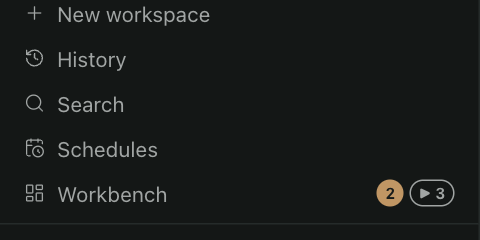
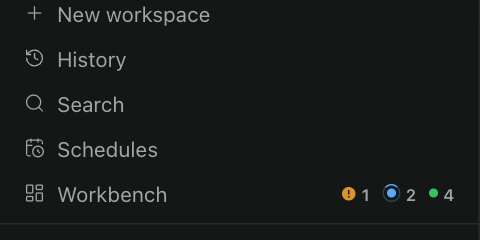
Sidebar badge: one count per Paseo status, with Paseo's marks and colours
Needs input (amber "!"), failed (red dot), working (blue dot in a ring), ready to review (green dot), in Paseo's order; zero counts hidden. Sizes measured against Paseo's own sidebar marks. The plugin theme only has muted status colours and no blue, so Paseo 0.13's statusDot values are copied, picked by the theme's background. 0.1.0-alpha.27.

Changed region(s): [[0.6875, 0.7292, 0.9688, 0.875]]

diff --git a/client/SidebarItem.tsx b/client/SidebarItem.tsx
@@ -3,14 +3,14 @@ import { usePaseo } from "@getpaseo/plugin/client";
 import { SidebarRow } from "@getpaseo/plugin/client/ui";
 import { useEffect, useState } from "react";
 import { Text, View } from "react-native";
-import { groupProjects, sidebarCounts } from "../shared/model";
+import { groupProjects, sidebarCounts, type SidebarCounts } from "../shared/model";
 import { isCoordinatorHome } from "../shared/settings";
 import { directoryForHost, watchAgents } from "./directory";
 
 /** This host's counts, refreshed about a second after any agent changes, and every 15 seconds. Null until read (or unreadable). */
 function useCounts(serverId: string) {
   const paseo = usePaseo();
-  const [counts, setCounts] = useState<{ attention: number; running: number } | null>(null);
+  const [counts, setCounts] = useState<SidebarCounts | null>(null);
   useEffect(() => {
     let alive = true;
     const load = async () => {
@@ -27,16 +27,43 @@ function useCounts(serverId: string) {
   return counts;
 }
 
-/** The Workbench sidebar row, with what needs you (amber) and how many agents are working. */
+/**
+ * Paseo's status dot colours (its theme's statusDot*, Paseo 0.13), which the plugin theme does not expose: its
+ * statusWarning/statusSuccess are muted variants and it has no running blue.
+ * shortcut: copied values, picked by the theme's background; update them if Paseo's change.
+ */
+const DOTS = {
+  light: { needsInput: "#b37824", failed: "#f12e2f", running: "#268ae0", finished: "#299f51" },
+  dark: { needsInput: "#db932e", failed: "#f7796d", running: "#5caaf6", finished: "#35c264" },
+};
+function isDark(color: string): boolean {
+  const hex = /^#([0-9a-f]{6})$/i.exec(color)?.[1];
+  if (!hex) return true; // Paseo's default theme is dark
+  const [r, g, b] = [0, 2, 4].map((i) => parseInt(hex.slice(i, i + 2), 16));
+  return 0.2126 * r! + 0.7152 * g! + 0.0722 * b! < 128;
+}
+/** In Paseo's bucket order, with its own words (subagent pills) and the shape its sidebar draws for each. */
+const BUCKETS = [["needsInput", "needs input", "alert"], ["failed", "failed", "dot"], ["running", "working", "ring"], ["finished", "ready to review", "dot"]] as const;
+
+/** The Workbench sidebar row, with a count per Paseo status (dot colour as in Paseo's sidebar) for agents on this host. */
 export function SidebarItem({ currentScreen, openScreen, host, theme }: PluginSidebarItemProps) {
   const counts = useCounts(host.id);
-  const badge = (text: string, color: string, filled: boolean, label: string) => <View accessibilityLabel={label}
-    style={{ minWidth: 18, paddingHorizontal: 5, height: 18, borderRadius: 9, alignItems: "center", justifyContent: "center", backgroundColor: filled ? color : "transparent", borderWidth: filled ? 0 : 1, borderColor: color }}>
-    <Text style={{ fontSize: 10, fontWeight: "700", color: filled ? theme.colors.surface0 : color }}>{text}</Text>
-  </View>;
-  const trailing = counts && (counts.attention || counts.running) ? <View style={{ flexDirection: "row", gap: 4, alignItems: "center" }}>
-    {counts.attention ? badge(String(counts.attention), theme.colors.statusWarning, true, `${counts.attention} need attention`) : null}
-    {counts.running ? badge(`▶ ${counts.running}`, theme.colors.foregroundMuted, false, `${counts.running} running`) : null}
+  const dots = DOTS[isDark(theme.colors.surface0) ? "dark" : "light"];
+  const shown = counts ? BUCKETS.filter(([key]) => counts[key] > 0) : [];
+  const trailing = counts && shown.length ? <View style={{ flexDirection: "row", gap: 8, alignItems: "center" }}>
+    {shown.map(([key, words, shape]) => <View key={key} accessibilityLabel={`${counts[key]} ${words}`} style={{ flexDirection: "row", gap: 4, alignItems: "center" }}>
+      {/* Paseo's marks, sizes measured against its sidebar: a filled circle with "!" (Lucide CircleAlert) when asking; a dot
+          in a faint spinner track while working (Paseo's arc moves, this one is still); a dot otherwise. */}
+      {shape === "alert" ? <View style={{ width: 9, height: 9, borderRadius: 4.5, backgroundColor: dots[key], alignItems: "center", justifyContent: "center" }}>
+          <View style={{ width: 1, height: 3, borderRadius: 0.5, backgroundColor: theme.colors.surface0 }} />
+          <View style={{ width: 1, height: 1, marginTop: 1, borderRadius: 0.5, backgroundColor: theme.colors.surface0 }} />
+        </View>
+        : shape === "ring" ? <View style={{ width: 12, height: 12, borderRadius: 6, borderWidth: 1, borderColor: `${dots[key]}4d`, borderTopColor: dots[key], alignItems: "center", justifyContent: "center" }}>
+          <View style={{ width: 6, height: 6, borderRadius: 3, backgroundColor: dots[key] }} />
+        </View>
+        : <View style={{ width: 6, height: 6, borderRadius: 3, backgroundColor: dots[key] }} />}
+      <Text style={{ fontSize: 11, fontWeight: "600", color: theme.colors.foregroundMuted }}>{counts[key]}</Text>
+    </View>)}
   </View> : undefined;
   return <SidebarRow icon="LayoutDashboard" active={currentScreen?.screenId === "workbench"} onPress={() => openScreen({ screenId: "workbench" })} trailing={trailing} />;
 }

diff --git a/shared/model.ts b/shared/model.ts
@@ -327,10 +327,15 @@ export function finishedSpecialists(agents: readonly WorkbenchAgent[]): Workbenc
   return agents.filter((a) => a.labels[SPECIALIST_LABEL] && !a.labels[PARENT_AGENT_ID_LABEL] && teamArchivable(agents, a));
 }
 
-/** The two numbers on the sidebar badge, counted like Workbench's header: what needs you, and what is working. */
-export function sidebarCounts(agents: readonly WorkbenchAgent[], projects: readonly ProjectGroup[]): { attention: number; running: number } {
+export type SidebarCounts = { needsInput: number; failed: number; running: number; finished: number };
+
+/** The sidebar badge's numbers, in Paseo's status buckets: asking you, failed, working, and finished since you looked. */
+export function sidebarCounts(agents: readonly WorkbenchAgent[], projects: readonly ProjectGroup[]): SidebarCounts {
+  const items = attentionGroups(agents, projects).flatMap((g) => g.items);
   return {
-    attention: attentionGroups(agents, projects).reduce((n, g) => n + g.items.length, 0),
+    needsInput: items.filter((i) => i.kind === "permission").length,
+    failed: items.filter((i) => i.kind === "error").length,
     running: agents.filter(isWorking).length,
+    finished: agents.filter(isReadyToReview).length,
   };
 }

diff --git a/README.md b/README.md
@@ -1,6 +1,6 @@
 # Workbench for Paseo
 
-**Status: 0.1.0-alpha.26. Validated against installed Paseo 0.12.0 on a disposable daemon (see [docs/TEST_REPORT.md](docs/TEST_REPORT.md)). Not yet run inside the native mobile app.**
+**Status: 0.1.0-alpha.27. Validated against installed Paseo 0.12.0 on a disposable daemon (see [docs/TEST_REPORT.md](docs/TEST_REPORT.md)). Not yet run inside the native mobile app.**
 
 Workbench adds a cross-project overview, Coordinators that orchestrate agents, and independent reusable specialist agents (with an opt-in second opinion) to Paseo. It uses native Paseo agents, workspaces, agent labels, plugin settings, and the existing mobile-compatible plugin UI. It does not replace Claude Code's own delegation, create a mission engine, or change Paseo's core.
 
@@ -16,11 +16,11 @@ Workbench adds a cross-project overview, Coordinators that orchestrate agents, a
 
 | Settings | Phone | Sidebar badge |
 |---|---|---|
-| ![Settings: default model, your specialists folder, specialists](docs/screenshots/settings.png) | ![Command tab on a phone](docs/screenshots/phone-command.png) | ![Workbench in Paseo's sidebar with attention and running counts](docs/screenshots/sidebar-badge.png) |
+| ![Settings: default model, your specialists folder, specialists](docs/screenshots/settings.png) | ![Command tab on a phone](docs/screenshots/phone-command.png) | ![Workbench in Paseo's sidebar with a count per agent status](docs/screenshots/sidebar-badge.png) |
 
 ## What it does
 
-- **Sidebar badge**: beside Workbench in Paseo's sidebar, an amber count of agents that need you (permissions and failures) and a ▶ count of agents working (this host; updates live as agents change).
+- **Sidebar badge**: beside Workbench in Paseo's sidebar, a count per Paseo status, with Paseo's own marks and colours: an amber "!", agents asking you (a question or permission); a red dot, failed; a blue dot in a ring, working; a green dot, finished since you last opened them (this host; updates live as agents change). Zero counts are hidden.
 - **Workbench sidebar screen** with four tabs: **Command** (what needs you, then coordinators and their chat; opens first), **Launch** (start anything), **Overview** (every agent by who started what; tap any row to open it), **Settings**.
 - **Launch**: one form. **What**: a specialist (Coordinator, Reviewer, Experiment reviewer, Debugger, Session summarizer, PR manager, or your own). **Where it runs**: **In a workspace** (one task in a workspace you pick, then it stops) or **Across projects** (runs as a coordinator over the projects you choose, starting and managing agents with that specialist's expertise). The **Coordinator** always runs as a coordinator, in either place: for one workspace, or across projects. **When**: **One time** or **Scheduled** (see Schedules). Then its details and one launch button.
 - **Schedules** (Paseo's own scheduler): a scheduled specialist **in a workspace** is a Paseo schedule that starts a new agent there at each run (hourly, weekdays, daily, weekly or a custom cron, in your time zone). Scheduled **across projects** launches the coordinator now and adds a recurring **check-in** message to it (a Paseo heartbeat). Both are listed under **Schedules** on the Launch tab, where workspace schedules can be paused, resumed or deleted and check-ins removed. Scheduled runs are single reviews; a read-only Codex specialist cannot be scheduled (the scheduler cannot request Codex's sandbox), a read-only Claude one runs in `plan` mode.

diff --git a/CHANGELOG.md b/CHANGELOG.md
@@ -1,5 +1,8 @@
 # Changelog
 
+## 0.1.0-alpha.27 — 2026-10-26
+- Sidebar badge mimics Paseo: one count per status with Paseo's own marks, colours and sizes (amber "!" needs input, red dot failed, blue dot in a ring working, green dot ready to review), in Paseo's order; zero counts hidden. It used to show one amber count and a grey "▶ n".
+
 ## 0.1.0-alpha.26 — 2026-10-25
 - Command: a **Finished** section under Running lists every agent Paseo marks with a green dot (finished since you last opened it), subagents nested under the agent that started them; opening one in Paseo clears it. Finished agents are no longer listed under Needs attention or counted in the sidebar's amber badge, which now counts only permissions and failures.
 - "Needs attention" now means exactly Paseo's amber and red dots everywhere: per-project counts (project order, a coordinator's brief) no longer include finished agents.

diff --git a/OVERVIEW.md b/OVERVIEW.md
@@ -1,4 +1,4 @@
-Workbench brings agent activity, coordinator conversations and specialist launches into one Paseo screen. **Command** shows what needs you, what is running and what just finished, and lets you chat with coordinators; **Launch** starts specialists and coordinators; **Overview** follows agent teams and manages worktrees. A badge beside Workbench in the sidebar counts agents that need you and agents that are working.
+Workbench brings agent activity, coordinator conversations and specialist launches into one Paseo screen. **Command** shows what needs you, what is running and what just finished, and lets you chat with coordinators; **Launch** starts specialists and coordinators; **Overview** follows agent teams and manages worktrees. A badge beside Workbench in the sidebar counts agents by status, with Paseo's own colours: needs input, failed, working, ready to review.
 
 ## Setup
 
